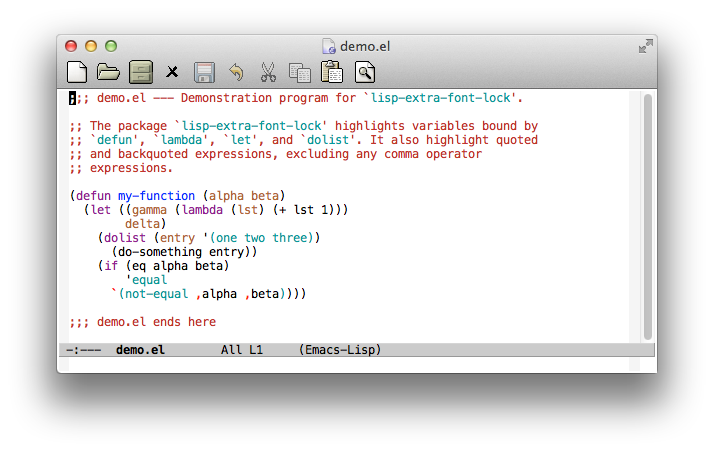
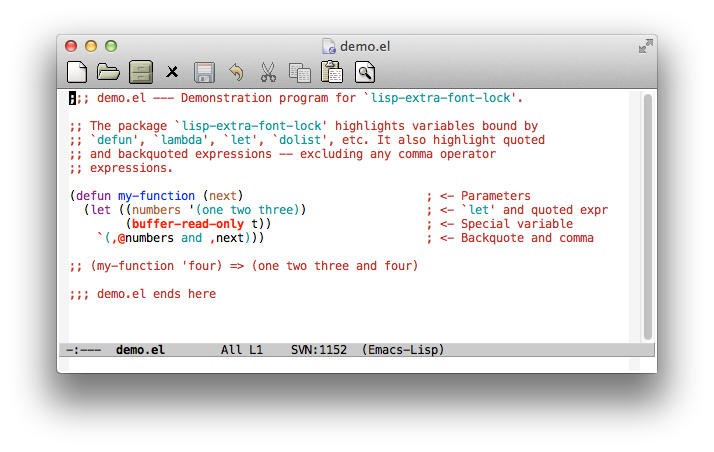
Highlight special variables differently. Demo updated.
git-svn-id: https://dropofthesun.com/svn/emacs/repos/lisp-extra-font-lock/branches/github@1186 c1af6f96-8016-4733-90a2-447896f46de0

diff --git a/README.md b/README.md
@@ -1,7 +1,7 @@
-# list-extra-font-lock - Highlight bound variables and quoted exprs
+# lisp-extra-font-lock - Highlight bound variables and quoted exprs
 
 *Author:* Anders Lindgren<br>
-*Version:* 0.0.0<br>
+*Version:* 0.0.1<br>
 *URL:* [https://github.com/Lindydancer/lisp-extra-font-lock](https://github.com/Lindydancer/lisp-extra-font-lock)<br>
 
 This package highlight bound variables and quoted expressions in
@@ -15,7 +15,8 @@ this package:
 ## What is highlighted
 
 * Parameters in functions and lambdas
-* Variables bound by `let` and `dolist`
+* Variables bound by `let` and `dolist`. Global variables rebound
+  by `let` is highlighted in a different color.
 * Quoted expressions
 * Backquoted expressions. However, subexpressions using the "," or
   ",@" are not highlighted. Also, the actual backquote and the
@@ -50,8 +51,13 @@ The following faces are used when highlighting. You can either
 redefine the face (e.g. using a theme), or you can rebind the
 corresponding variable.
 
-* Variables are highlighted using the standard face
+* Local variables are highlighted using the standard face
   `font-lock-variable-name-face`.
+* Special (global) variables that are rebound by `let` are
+  highlighted using the face bound to the variable
+  `lisp-extra-font-lock-special-variable-name-face` (by default
+  `lisp-extra-font-lock-special-variable-name`, which inherits from
+  `font-lock-warning-face`.)
 * Quoted expressions use the face bound to the variable
   `lisp-extra-font-lock-quoted-face` (by default
   `lisp-extra-font-lock-quoted`, which inherits from
